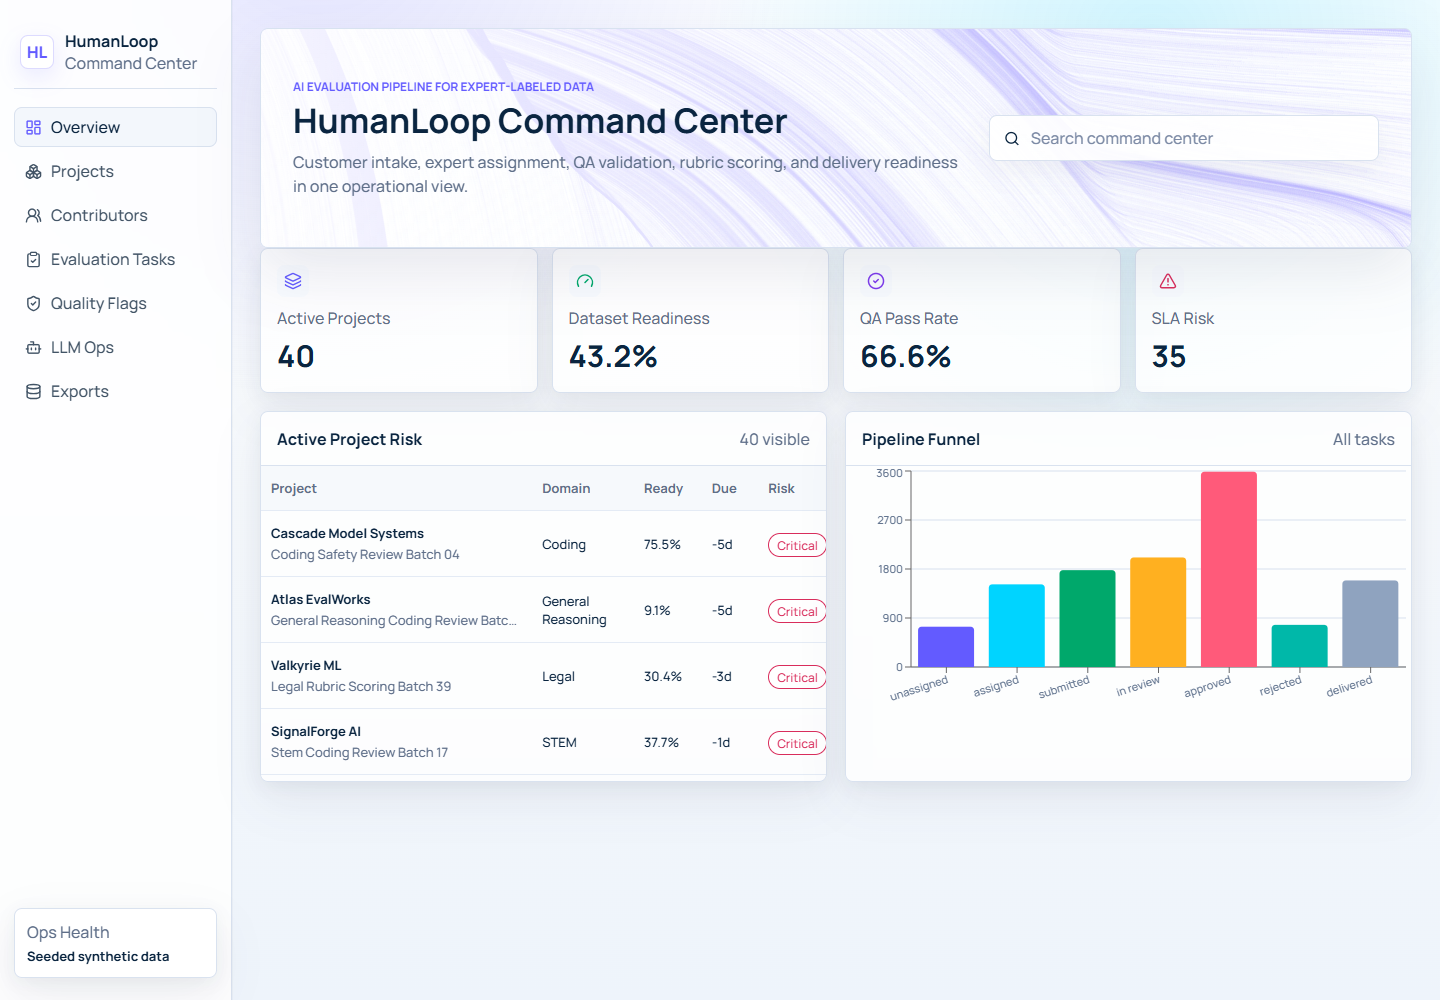
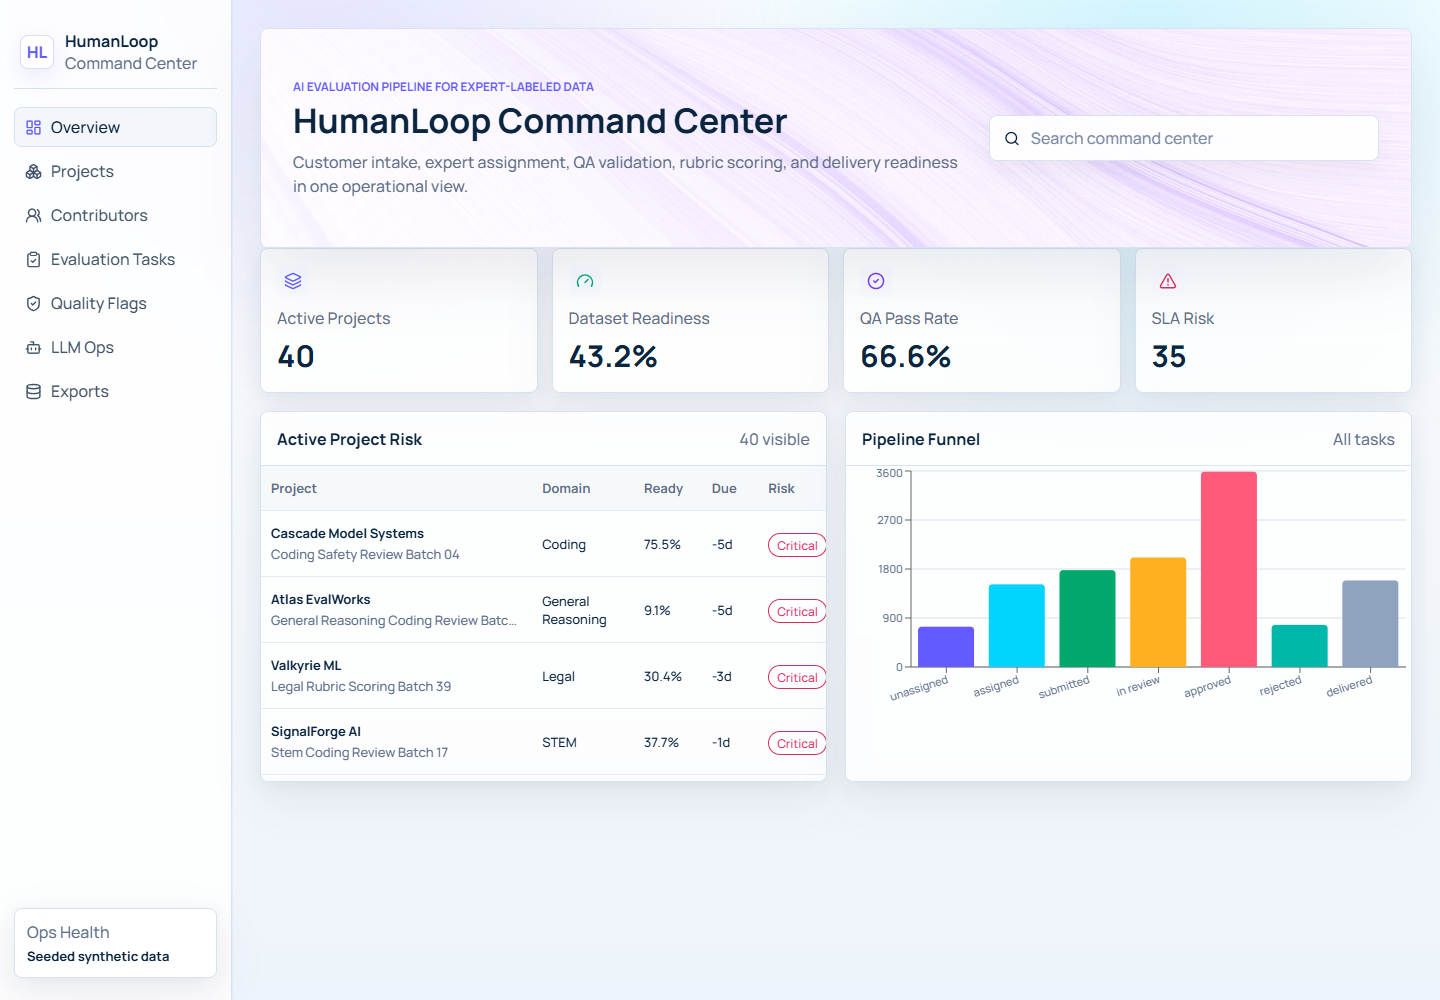
style: tune live background to light purple

Changed region(s): [[0.7812, 0.155, 0.9688, 0.248], [0.625, 0.031, 0.75, 0.124], [0.5625, 0.186, 0.5938, 0.217]]

diff --git a/frontend/src/styles.css b/frontend/src/styles.css
@@ -953,20 +953,20 @@ td span,
 .command-band {
   border-color: #d8e2f0;
   background:
-    linear-gradient(110deg, rgba(255, 255, 255, 0.9), rgba(255, 255, 255, 0.2)),
-    linear-gradient(135deg, #ffffff 0%, #ecf5ff 44%, #f6efff 100%);
+    linear-gradient(110deg, rgba(255, 255, 255, 0.86), rgba(255, 255, 255, 0.18)),
+    linear-gradient(135deg, #fffaff 0%, #f4eaff 42%, #eee7ff 100%);
   box-shadow: 0 24px 60px rgba(50, 50, 93, 0.10);
 }
 
 .command-band .vanta-canvas {
-  opacity: 0.7 !important;
-  filter: saturate(1.45) contrast(1.08);
+  opacity: 0.78 !important;
+  filter: saturate(1.35) contrast(1.06);
 }
 
 .command-overlay {
   background:
-    linear-gradient(90deg, rgba(255, 255, 255, 0.9), rgba(255, 255, 255, 0.18)),
-    linear-gradient(180deg, rgba(255, 255, 255, 0.08), rgba(246, 249, 252, 0.28));
+    linear-gradient(90deg, rgba(255, 255, 255, 0.88), rgba(255, 255, 255, 0.2)),
+    linear-gradient(180deg, rgba(250, 245, 255, 0.08), rgba(246, 240, 255, 0.26));
 }
 
 h1 {

diff --git a/frontend/src/App.tsx b/frontend/src/App.tsx
@@ -294,8 +294,8 @@ function CommandBand({ search, onSearch }: { search: string; onSearch: (value: s
           minWidth: 200,
           scale: 1,
           scaleMobile: 1,
-          color: 0x635bff,
-          backgroundColor: 0xf6f9fc,
+          color: 0x9f7aea,
+          backgroundColor: 0xf4eaff,
           points: 5,
           maxDistance: 17,
           spacing: 18